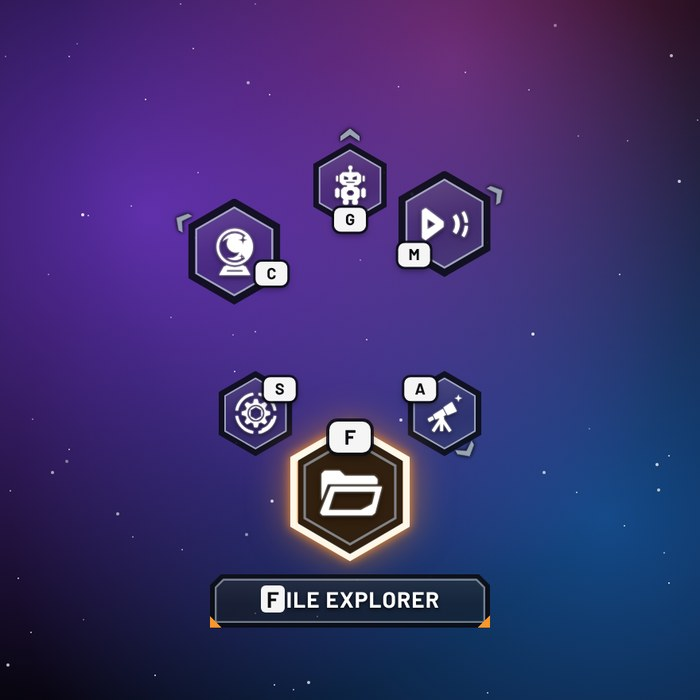
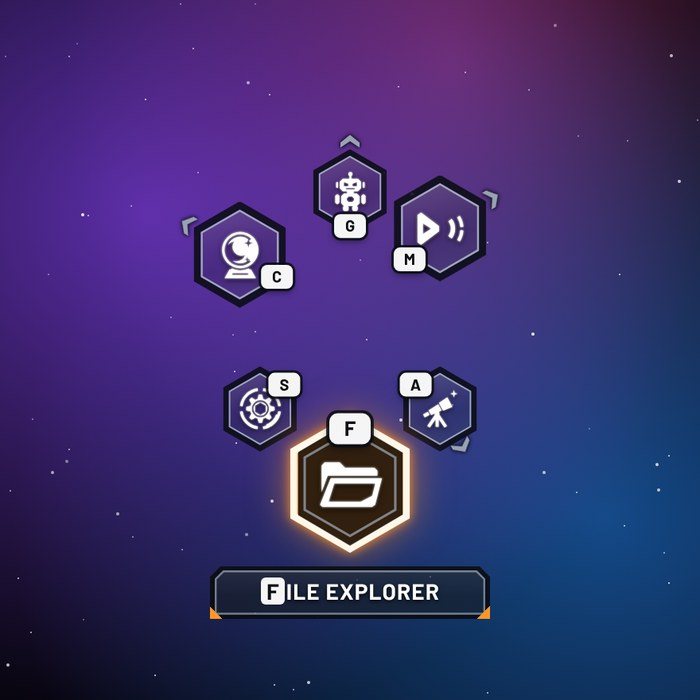
Gunmetal Arsenal: tighten ring so tile gaps match the reference
Ring radius 84 -> 80px and spread per item 10.5 -> 10.3px, so neighbouring
tiles sit about one frame width apart. Previews re-rendered.

Claude-Session: https://claude.ai/code/session_017KpJ4pfL3JfLqtKXUkaQyd

Changed region(s): [[0.3, 0.51, 0.72, 0.9], [0.45, 0.18, 0.72, 0.42], [0.24, 0.27, 0.42, 0.45]]

diff --git a/themes/gunmetal-arsenal/theme.css b/themes/gunmetal-arsenal/theme.css
@@ -48,8 +48,8 @@
 
   /* Distance from the center to the slots around it. Menus with more than 8 items
      spread out further automatically, so slots never overlap. */
-  --child-distance: 84px;
-  --spread-per-item: 10.5px;
+  --child-distance: 80px;
+  --spread-per-item: 10.3px;
 
   /* Slot sizes. A regular pointy-top hexagon is 1.155 times taller than it is wide,
      so if you change a width, set its height to width x 1.155. */
